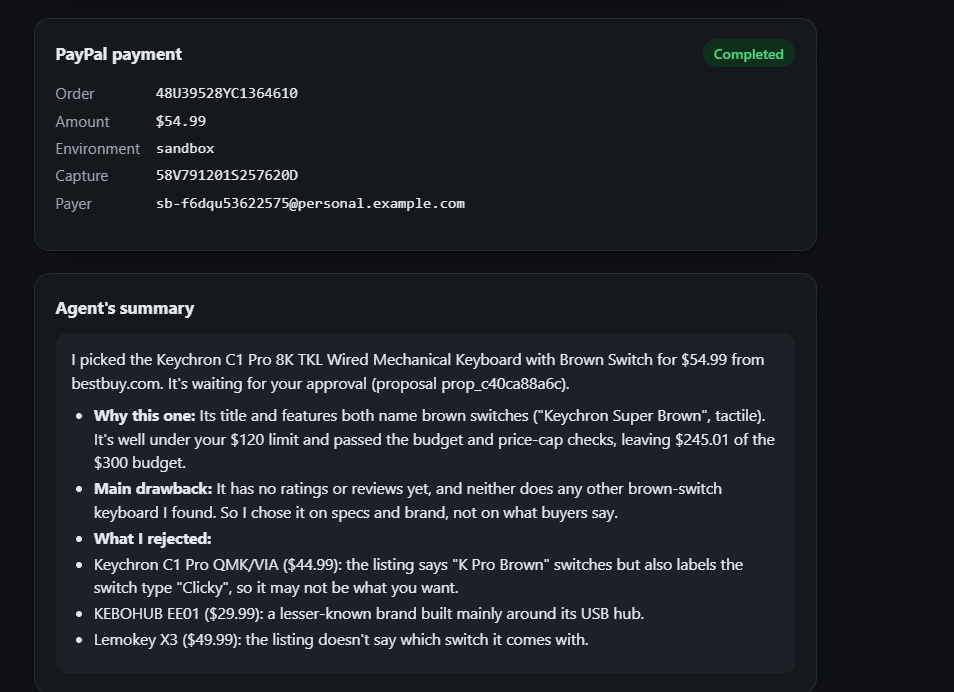
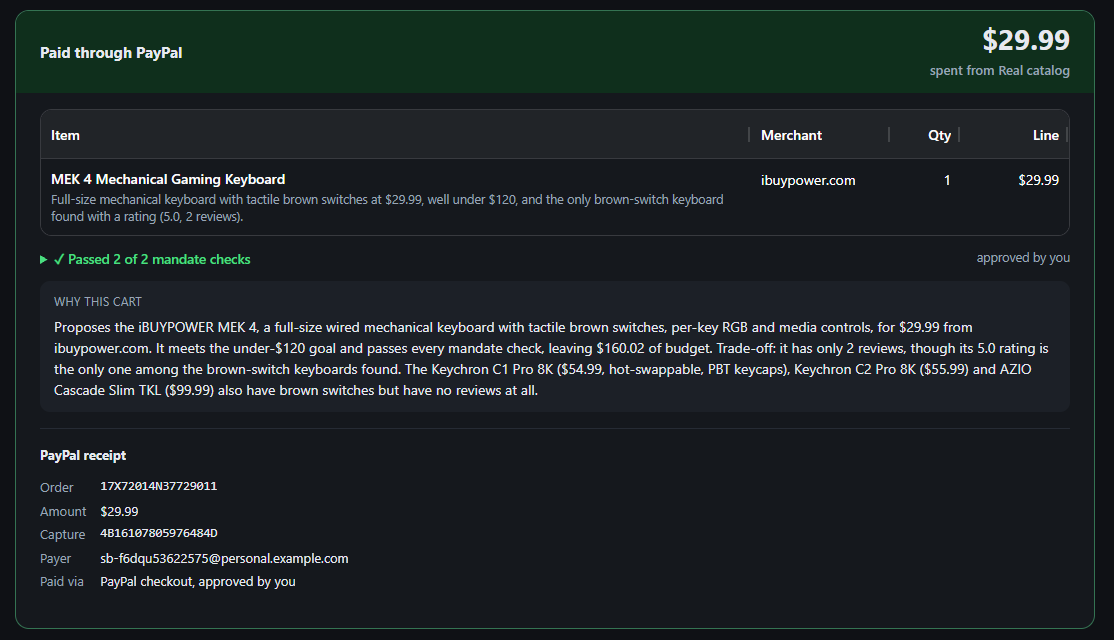
docs: a live sandbox run as the main screenshot
A real run on the deployed demo with Claude, the Channel3 catalog and a
captured PayPal sandbox order replaces the older live screenshots.

diff --git a/README.md b/README.md
@@ -15,9 +15,9 @@ Built for the [PayPal AI Hackathon](https://paypalaihackathon.devpost.com/) (Oct
 **Live demo: http://23.27.20.150:8080** (PayPal sandbox, Claude Opus 5.5, live Channel3 catalog; no real money moves).
 To test a payment, log in at PayPal checkout with the sandbox buyer account `sb-f6dqu53622575@personal.example.com` / password `Udb;8n)b`.
 
-![A paid mission: the cart the agent proposed inside the mandate, the PayPal receipt, and how the agent got there](docs/screenshots/mission-paid.png)
+![Live sandbox run: a real Channel3 product, Claude's reasoning, the PayPal order captured after a human approved](docs/screenshots/live-mission-paid.png)
 
-*The mission page after a human approved the agent's cart: what was bought and why, the PayPal receipt, the story of how the agent got there, and every product it compared. Taken in offline demo mode; the live demo runs the same flow on the PayPal sandbox with Claude and the live Channel3 catalog ([a live run](docs/screenshots/live-mission-paid.png), earlier design).*
+*A real run on the live demo: asked for "a mechanical keyboard with brown switches under $120", the agent searched Channel3 twice, picked the one brown-switch keyboard that has a rating, explained which alternatives it passed over and why, and the PayPal sandbox order was captured after a human approved it. The receipt shows the PayPal order and capture IDs.*
 
 ![Seventeen seconds of the offline demo: goal typed, agent proposes, human approves, simulated PayPal checkout, captured, insights](docs/demo.gif)
 
@@ -59,7 +59,7 @@ Two independent gates protect the money: the policy engine (re-run at approval t
 |---|---|
 | ![Dashboard](docs/screenshots/dashboard.png) Dashboard: one goal bar, what needs approval, mandates with budget bars, standing orders, recent missions | ![Paid](docs/screenshots/mission-paid.png) Captured payment with PayPal order and capture IDs |
 | ![Rejected and revised](docs/screenshots/mission-rejected-and-revised.png) Rejected with feedback, revised by the agent | ![Ledger](docs/screenshots/ledger.png) Ledger across all mandates (AG Grid) |
-| ![PayPal sandbox checkout](docs/screenshots/live-paypal-checkout.png) The real PayPal sandbox checkout the buyer lands on (live sandbox) | ![Receipt](docs/screenshots/live-payment-receipt.png) Capture ID, payer and the agent's reasoning after a live sandbox payment (earlier design) |
+| ![PayPal sandbox checkout](docs/screenshots/live-paypal-checkout.png) The real PayPal sandbox checkout the buyer lands on (live sandbox) | ![Receipt](docs/screenshots/live-payment-receipt.png) Capture ID, payer and the agent's reasoning after a live sandbox payment |
 | ![Spending insights](docs/screenshots/insights.png) Spending insights: AG Charts over the ledger, AG Grid of every item bought | ![Suggestion](docs/screenshots/suggestion.png) A goal outside the mandate: the agent explains, suggests the smallest change, the human amends and retries |
 | ![One-click payment](docs/screenshots/one-click-paid.png) Second purchase on a mandate with a saved PayPal account: approved and captured with one click, no checkout | ![Standing orders](docs/screenshots/standing-orders.png) Standing orders on the dashboard: the goal re-runs on schedule, inside the mandate, with Run now and Stop |
 | ![Agent-to-agent negotiation](docs/screenshots/negotiation.png) Agent-to-agent: the buyer agent negotiates a service under the mandate's limit, the seller agent concedes, the human approves | |
